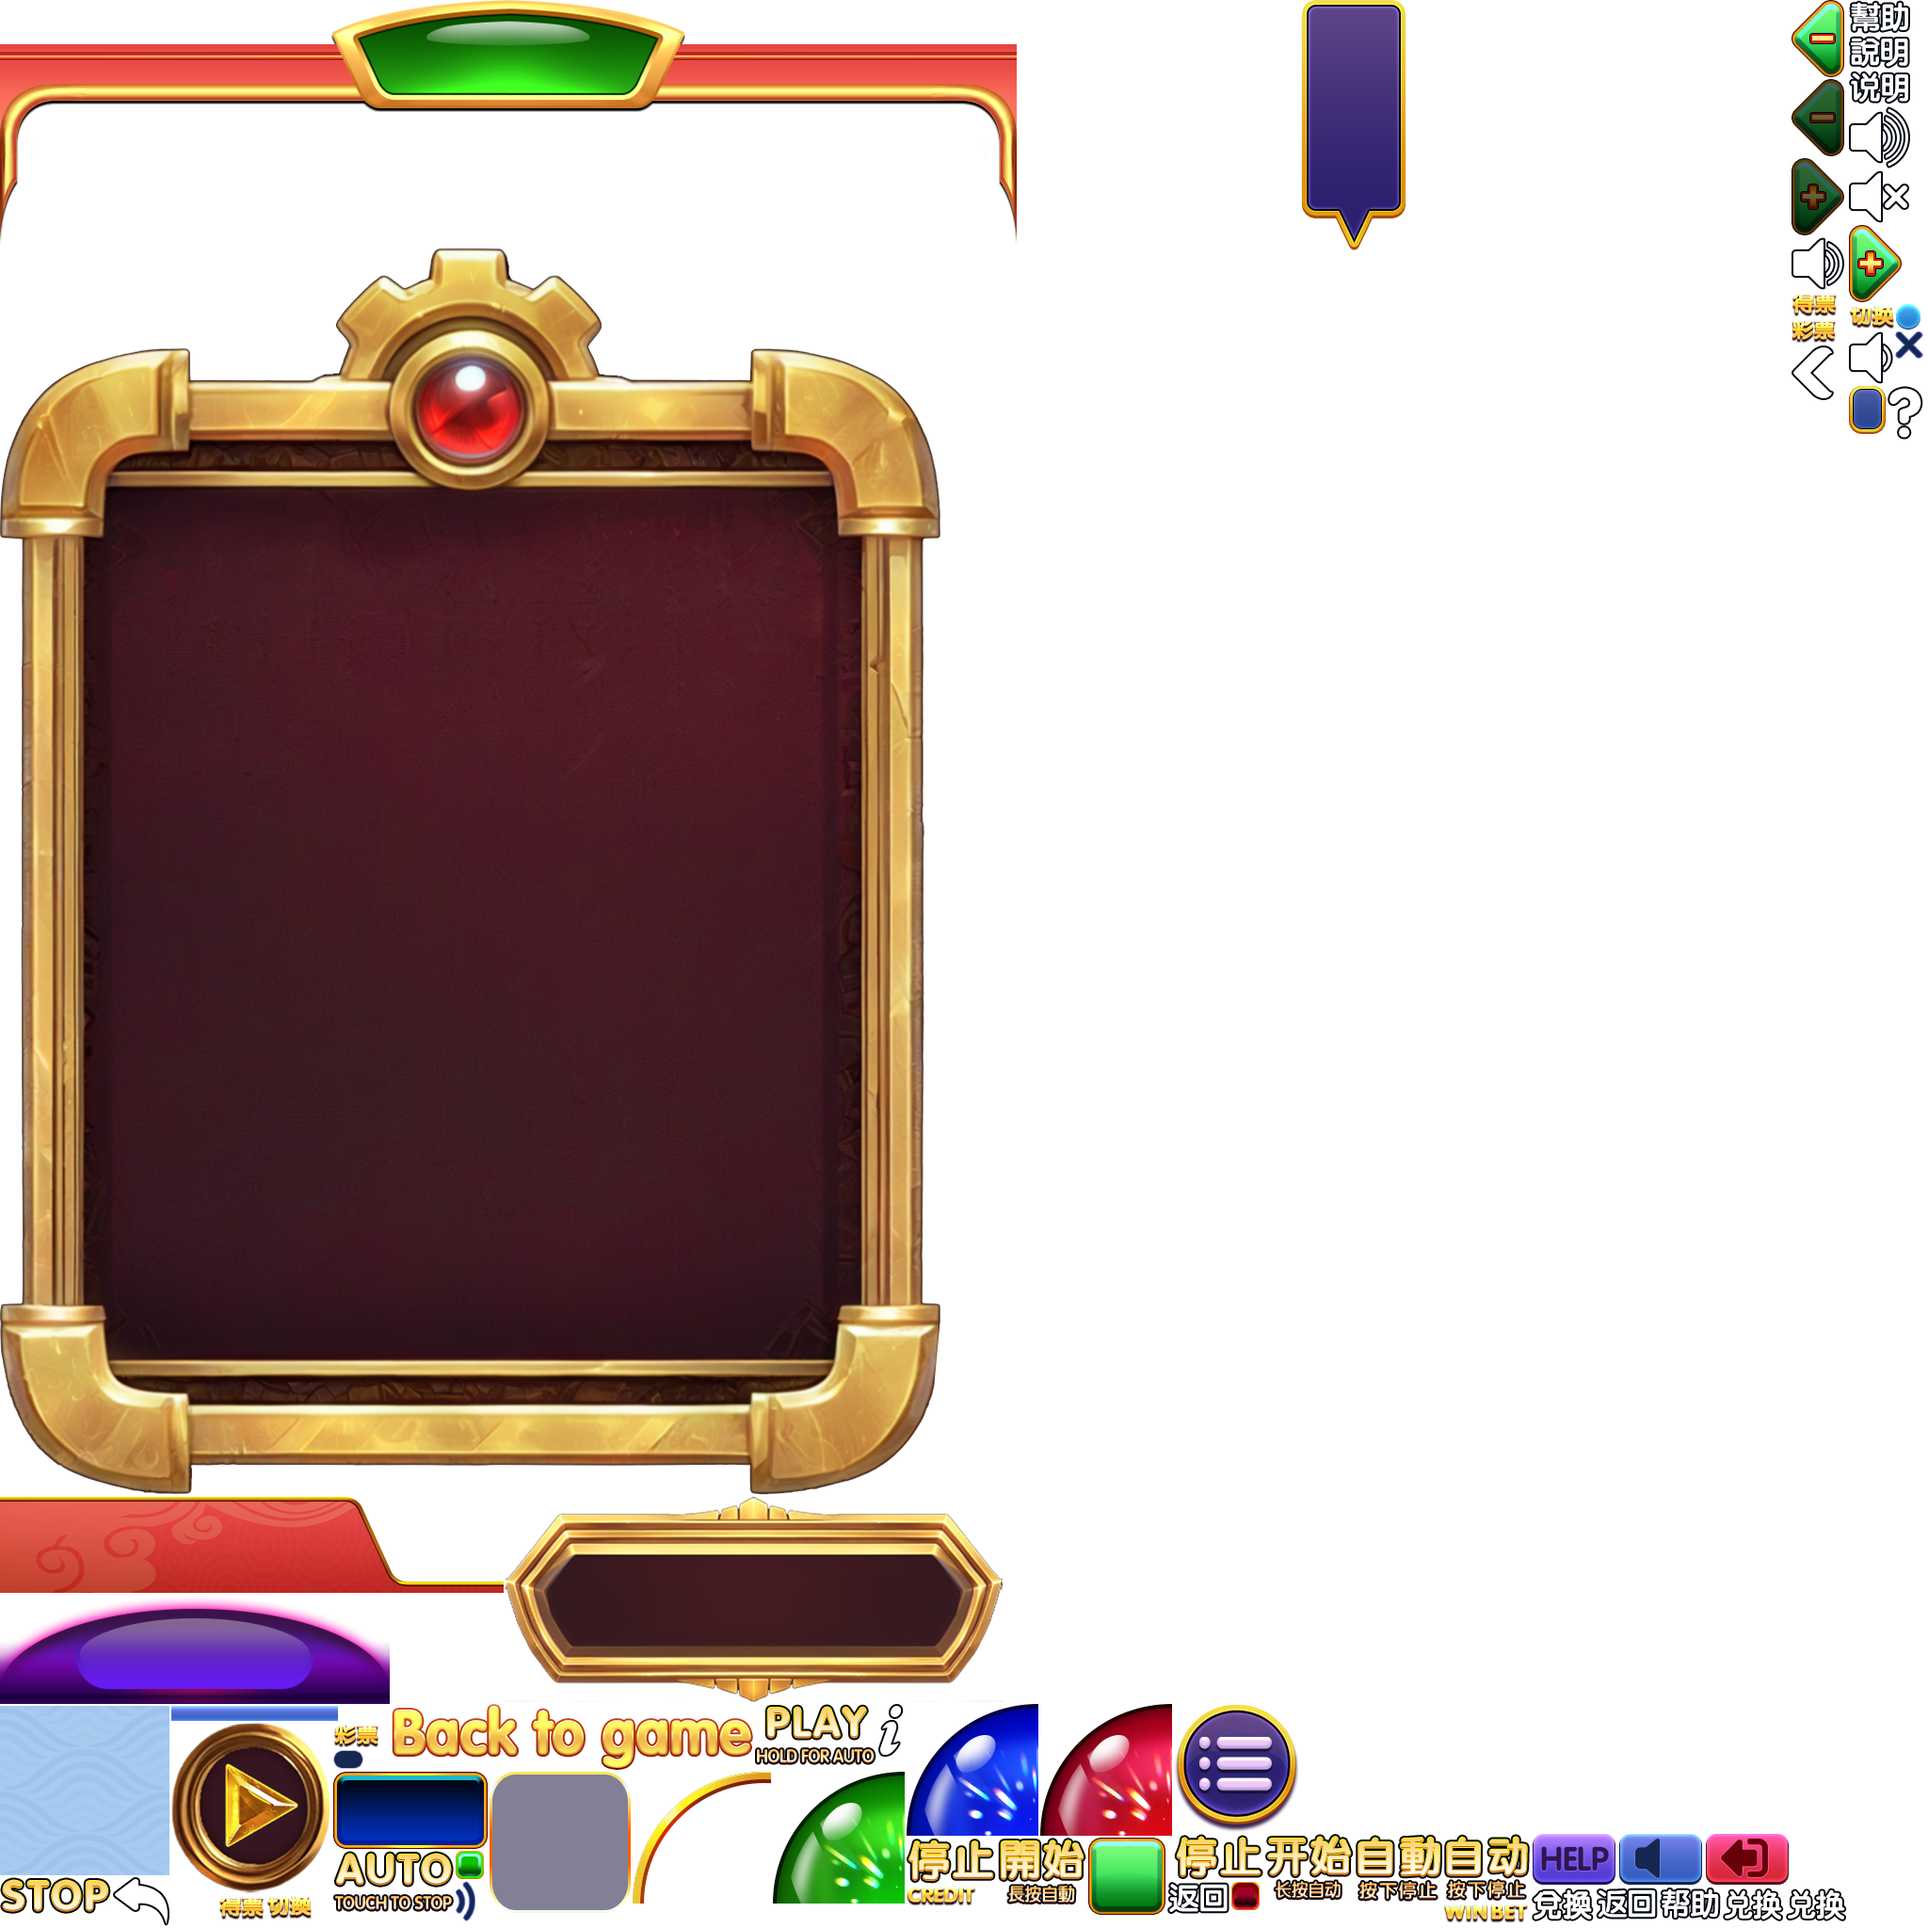
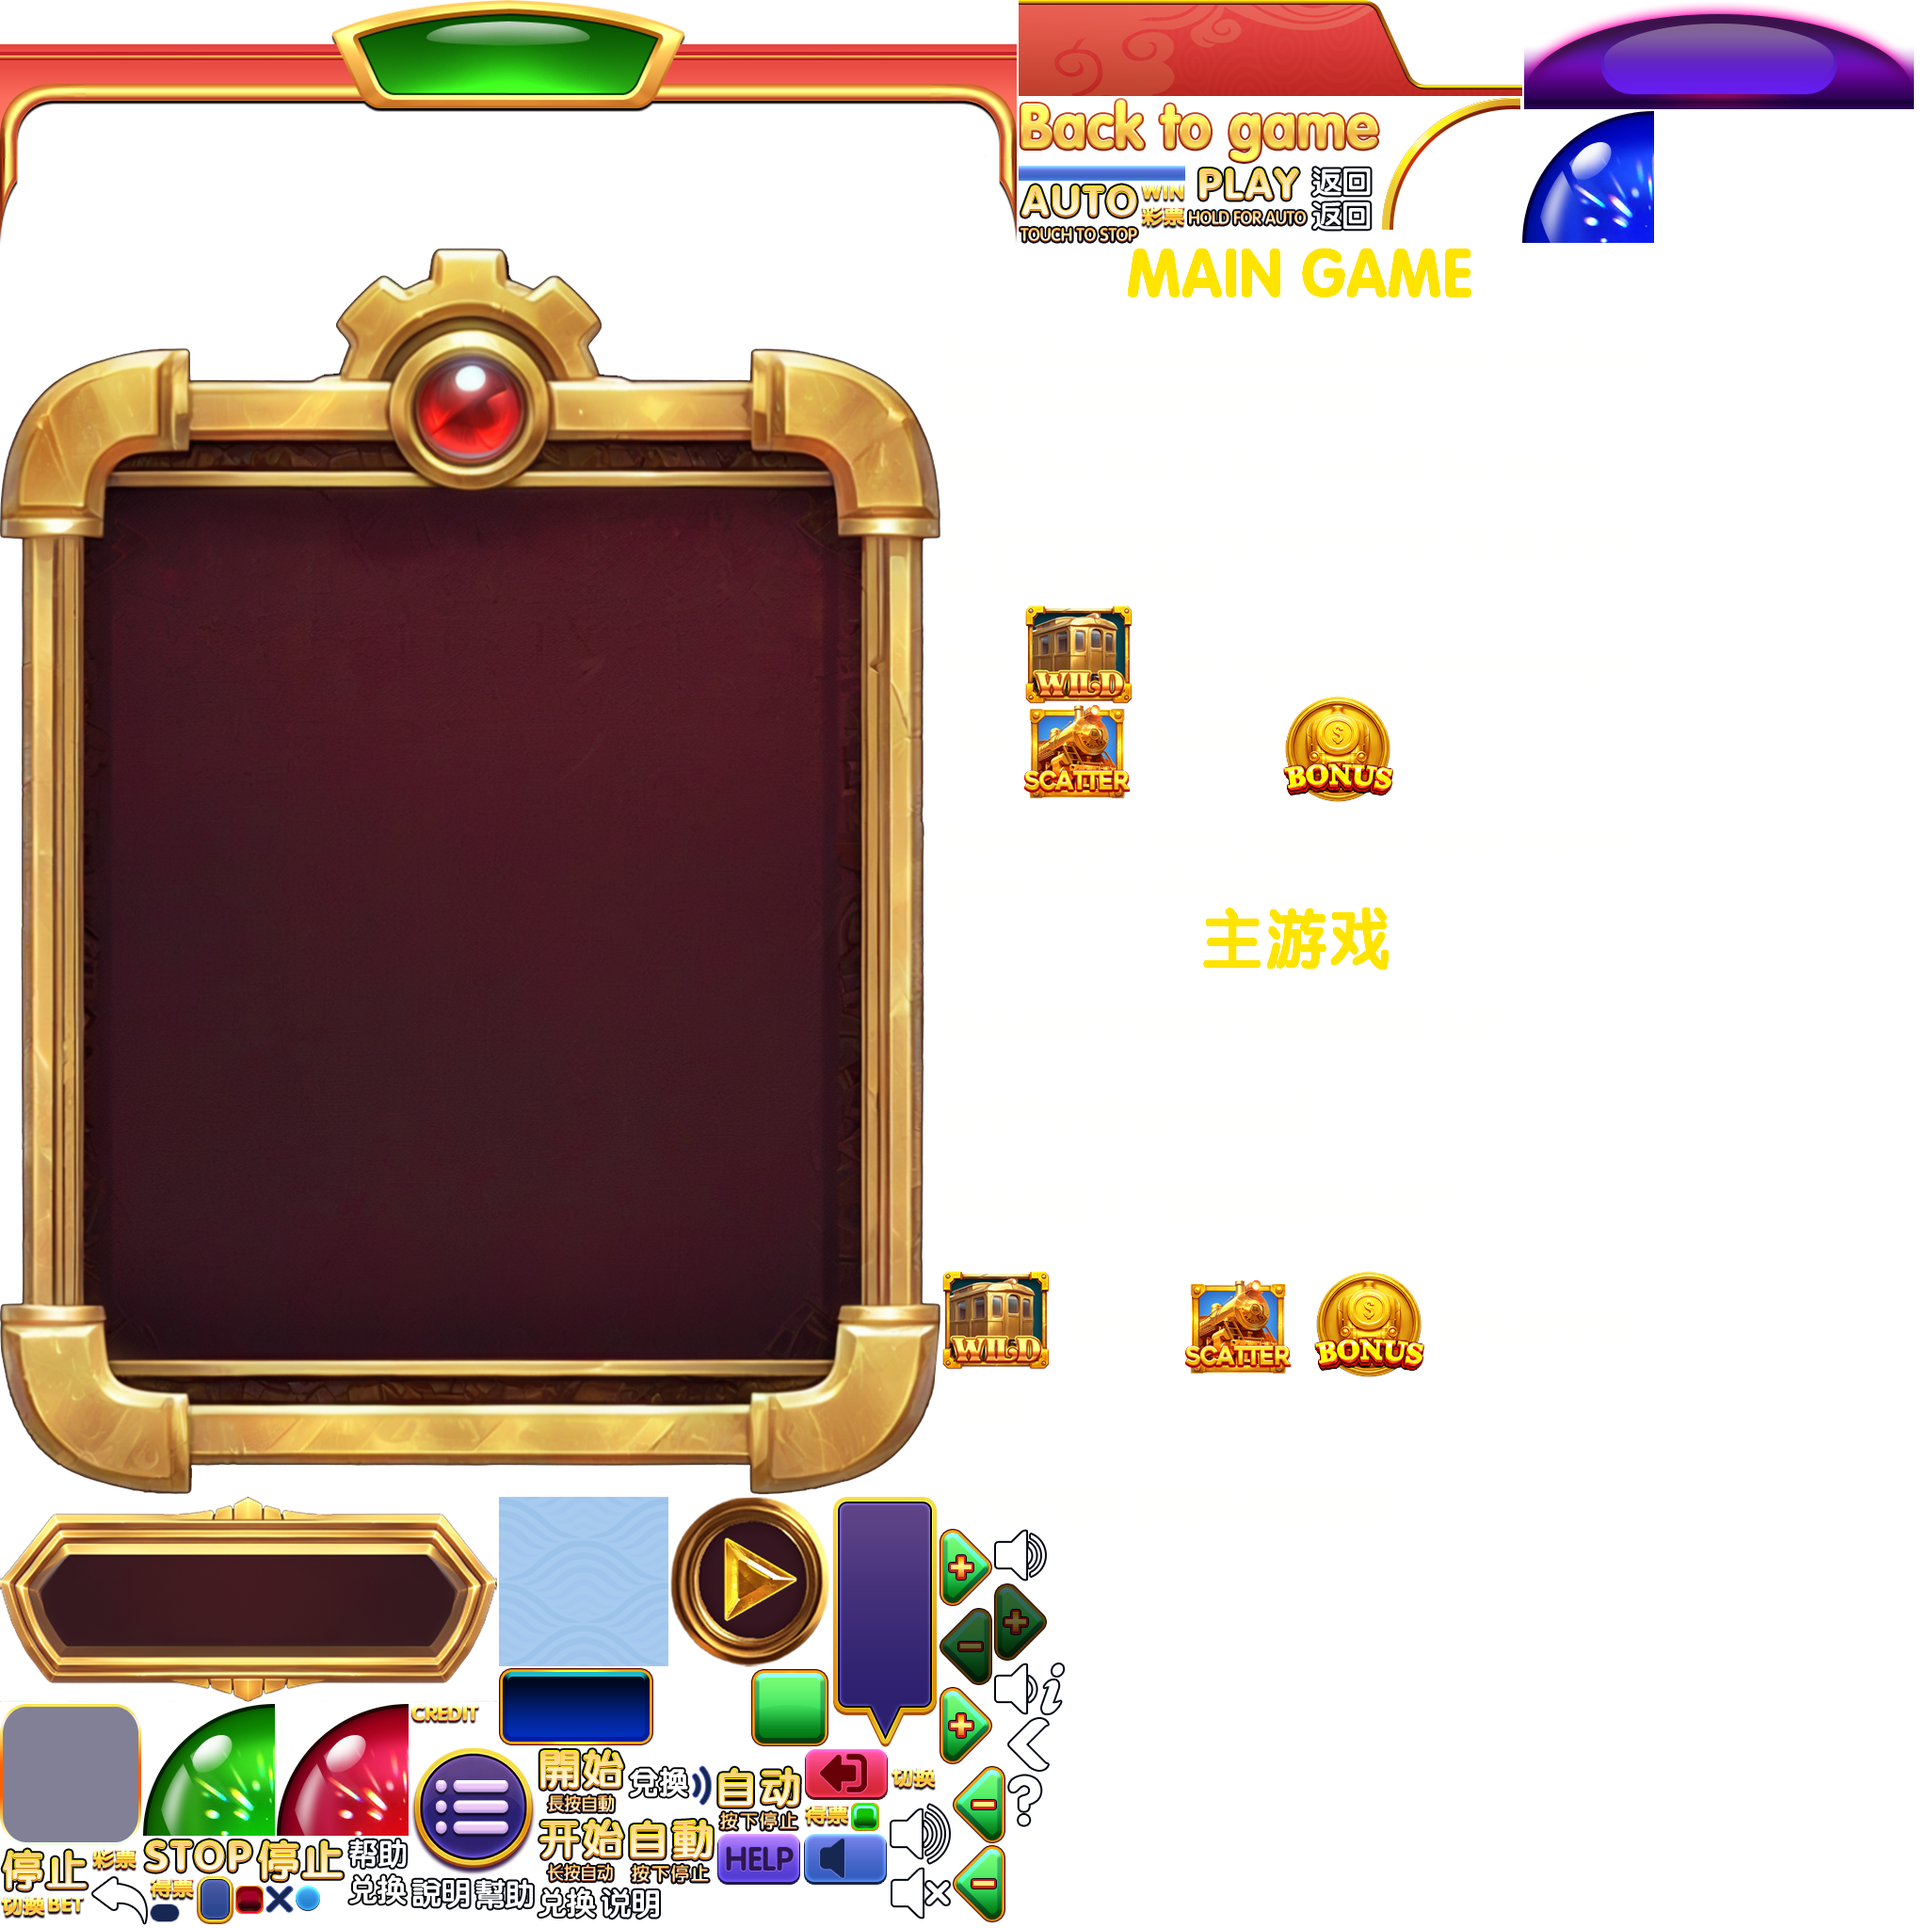
添加 展会模式1.0

diff --git a/Assets/HotFix/Games/Panel Slot 01/PanelBaseController.cs b/Assets/HotFix/Games/Panel Slot 01/PanelBaseController.cs
@@ -4,6 +4,7 @@ using Newtonsoft.Json;
 using PusherEmperorsRein;
 using SBoxApi;
 using System;
+using System.Collections;
 using System.Collections.Generic;
 using TestHall;
 using UnityEngine;
@@ -42,6 +43,11 @@ namespace SlotMaker
 
         //声音滑动条
         protected GSlider silderSound;
+
+        //展会模式
+        protected GComponent ExhibitionPanel;
+        protected List<GButton> btnColUps, btnColDowns;
+        protected GButton btnExhibition;
 
         // 当前是否处于设置弹窗状态
         protected bool isSet;
@@ -322,6 +328,16 @@ namespace SlotMaker
                 Help();
                 BackHall();
             });
+
+            //展会模式
+            ExhibitionPanel = gOwnerPanel.GetChild("ExhibitionPanel").asCom;
+            for (int i = 0; i < ExhibitionPanel.numChildren-1; ++i)
+            {
+                btnColUps.Add(ExhibitionPanel.GetChildAt(i).asCom.GetChildAt(0).asButton);
+                btnColUps.Add(ExhibitionPanel.GetChildAt(i).asCom.GetChildAt(1).asButton);
+            }
+            btnExhibition = ExhibitionPanel.GetChild("btnExhibition").asButton;
+
             OnPropertyChangeBetList();
             OnPropertyChangeTotalBet();
             OnPropertyChangeBtnSpinState();

diff --git a/Assets/HotFix/Games/Slot Zhu Zai Jin Bi 1700/Controller/PanelController1700.cs b/Assets/HotFix/Games/Slot Zhu Zai Jin Bi 1700/Controller/PanelController1700.cs
@@ -11,8 +11,6 @@ public class PanelController1700 : SlotMaker.PanelBaseController
     {
         base.Init(res);
     }
-
-
     protected override void InitParam()
     {
         base.InitParam();
@@ -29,6 +27,5 @@ public class PanelController1700 : SlotMaker.PanelBaseController
             ClearSingleLineText();
         }
     }
-
   
 }
